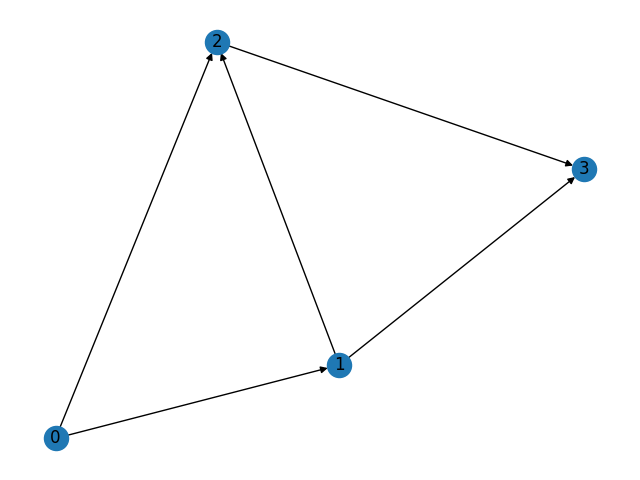
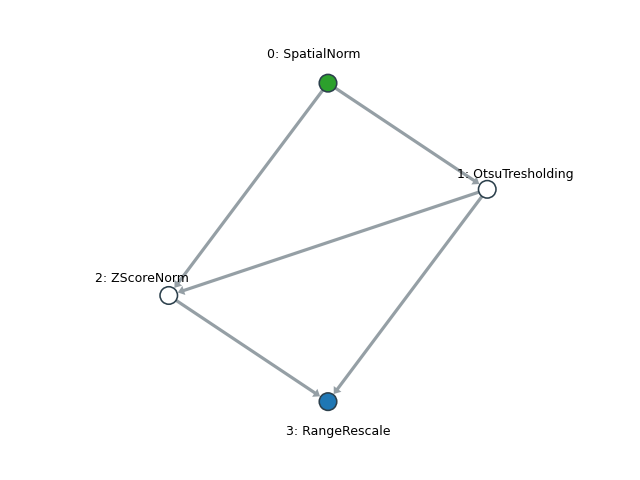
Support better plotting. Fix example 03.

diff --git a/mnts/filters/mnts_filters.py b/mnts/filters/mnts_filters.py
@@ -51,8 +51,8 @@ class MNTSFilter(object):
         return self.filter(*args, **kwargs)
 
     def __str__(self):
-        return f"{self.__class__.__name__}: \n\t" + \
-               '\n\t'.join(["{: >10}: {}".format(item[0], item[1]) for item in self.get_all_properties()])
+        return f"{self.__class__.__name__}: \n" + "-" * (len(self.__class__.__name__)+1) + \
+               '\n\t' + '\n\t'.join(["{: >20}: {}".format(item[0], item[1]) for item in self.get_all_properties()])
 
 class MNTSFilterRequireTraining(MNTSFilter):
     def __init__(self):
@@ -262,9 +262,32 @@ class MNTSFilterGraph(object):
             return cur_filter(self._inputs[node_id])
 
     def plot_graph(self):
+        import matplotlib.pyplot as plt
+        from netgraph import Graph
         #TODO: write this nodemap as the legend of the graph.
         print(self._nodemap)
-        nx.draw(self._graph, with_labels=True)
+        # nx.draw(self._graph, with_labels=True)
+
+        nodes_color = {}
+        for n in self.nodes:
+            if n in self._entrance:
+                nodes_color[n] = 'tab:green'
+            elif n in self._exits:
+                nodes_color[n] = 'tab:blue'
+            else:
+                nodes_color[n] = 'white'
+
+        nodes_label = {n: f'{n}: {self._nodemap[n]}' for n in self._nodemap}
+
+        try:
+            Graph(graph=self._graph, arrows=True, node_layout='dot', node_labels=nodes_label,
+                  node_label_fontdict={'size':9}, node_label_offset=0.1, node_color=nodes_color)
+        except AttributeError:
+            msg = f"Cannot plot using Sugiyama layout, retreating to spring."
+            self._logger.warning(msg, no_repeat=True)
+            Graph(graph=self._graph, arrows=True, node_layout='spring', node_labels=nodes_label,
+                  node_label_fontdict={'size': 8}, node_label_offset=0.1, node_color=nodes_color)
+
 
     def execute(self,
                 *args,
@@ -391,7 +414,6 @@ class MNTSFilterGraph(object):
             :class:`MNTSFilterRequireTraining`
 
         """
-
         input_path = Path(training_inputs).resolve()
         assert input_path.is_dir(), f"Cannot open training inputs at {input_path.__str__()}"
         if not isinstance(nodelist, (list, tuple)):
@@ -430,7 +452,10 @@ class MNTSFilterGraph(object):
                 u_nodes_files.append([str(r.resolve()) for r in u_node_dir.iterdir()
                                       if r.name.find('nii') != -1])
             trained_node_filter.train(*u_nodes_files)
-            trained_node_filter.save_state(save_dir.joinpath(trained_node_name))
+            trained_state_path = save_dir.joinpath(trained_node_name)
+            trained_node_filter.save_state(trained_state_path)
+            self._logger.info(f"Saving the state for {trained_node_name} to:"
+                              f" {str(trained_state_path)}")
 
     def load_node_states(self,
                          nodelist: List[Union[int, MNTSFilter]],
@@ -469,8 +494,11 @@ class MNTSFilterGraph(object):
         return cpyobj
 
     def __str__(self):
-        msg = ""
+        msg = "{:=^25}\n".format("Graph Structure")
         for n in self.nodes:
             u_nodes = [x[1] for x in self._graph.out_edges(n)]
             msg += f"{n: >2}: {self.nodes[n]['filter'].get_name()} -> {u_nodes} \n"
+        msg += "{:=^50}\n".format("Filter Details")
+        for n in self.nodes:
+            msg += str(self.nodes[n]['filter']) + '\n\n'
         return msg

diff --git a/mnts/filters/intensity/n4_bias_field_correction.py b/mnts/filters/intensity/n4_bias_field_correction.py
@@ -1,0 +1,95 @@
+import SimpleITK as sitk
+import numpy as np
+from pathlib import Path
+from typing import Union, Tuple, List
+from ..mnts_filters import MNTSFilter
+from .intensity_base import MNTSIntensityBase
+
+__all__ = ['N4ITKBiasFieldCorrection']
+
+class N4ITKBiasFieldCorrection(MNTSIntensityBase, MNTSFilter):
+    r"""
+    Comput the
+
+    Attributes:
+        max_iteration (int):
+            The maximum number of iterations specified at each fitting level. Default = 50.
+        num_of_fitting_lv (int):
+            The number of control points for the B-spline fitting. Default = 4.
+        convergence_threshold (float):
+            Fitting stopping criteria. Default = 0.01
+        num_hist_bins (int):
+            Number of histogram bins. Default = 200.
+    """
+    def __init__(self
+                 ):
+        super(N4ITKBiasFieldCorrection, self).__init__()
+        self._max_iteration = 50
+        self._num_of_fitting_lv = 4
+        self._convergence_threshold = 0.1
+        self._num_hist_bins = 200
+
+        self._last_bias_field = None
+        pass
+
+    @property
+    def max_iteration(self) -> int:
+        return self._max_iteration
+
+    @max_iteration.setter
+    def max_iteration(self, val: int) -> None:
+        assert val >= 1, "Number of iteration must be >= 1."
+        self._max_iteration = int(val)
+
+    @property
+    def num_of_fitting_lv(self) -> int:
+        return self._num_of_fitting_lv
+
+    @num_of_fitting_lv.setter
+    def num_of_fitting_lv(self, val: int) -> None:
+        assert val >= 2, "Number of fitting level is meaningless below 2."
+        self._num_of_fitting_lv = int(val)
+
+    @property
+    def convergence_thres(self) -> float:
+        return self._convergence_threshold
+
+    @convergence_thres.setter
+    def convergence_thres(self, val: float):
+        self._convergence_threshold = float(val)
+
+    @ property
+    def last_bias_field(self) -> sitk.Image:
+        if self._last_bias_field is None:
+            self._logger.warning("The bias field was not calculated yet.")
+        return self._last_bias_field
+
+    def correct_with_last_bias_field(self, input):
+        if self._last_bias_field is None:
+            raise ArithmeticError(f"Bias field have not been calculated yet.")
+        return input / sitk.Exp(self._last_bias_field)
+
+    def _filter(self,
+                input: Union[str, Path, sitk.Image],
+                mask: Union[str, Path, sitk.Image] = None):
+
+        input = self.read_image(input)
+        mask = self.read_image(mask)
+
+        # Corrector require float input.
+        if not input.GetPixelID() in [sitk.sitkFloat32, sitk.sitkFloat64]:
+            input = sitk.Cast(input, sitk.Float)
+
+        # Shrink input & mask by a factor of 2 to save computational time
+        shrinked = sitk.Shrink(input, [2] * input.GetDimension())
+        if not mask is None:
+            shirinked_mask = sitk.Shrink(mask, [2] * input.GetDimension())
+
+
+        corrector = sitk.N4BiasFieldCorrectionImageFilter()
+        corrector.SetMaximumNumberOfIterations([self.max_iteration] * self.num_of_fitting_lv)
+        corrector.Execute(shrinked, shirinked_mask)
+
+        log_bias_field = corrector.GetLogBiasFieldAsImage(input)
+        self._last_bias_field = log_bias_field
+        return input / sitk.Exp(log_bias_field)

diff --git a/test/test_masking.py b/test/test_masking.py
@@ -5,19 +5,15 @@ import networkx as nx
 import matplotlib.pyplot as plt
 import SimpleITK as sitk
 
-t = ZScoreNorm()
-G = MNTSFilterGraph()
-G.add_node(SpatialNorm(out_spacing=1))
-G.add_node(OtsuTresholding(), 0)
-G.add_node(ZScoreNorm(), [0, 1])
-G.add_node(RangeRescale(0, 5000), [2,1], True)
-G.plot_graph()
-plt.show()
+from netgraph import Graph
 
-image = sitk.ReadImage(r"Z:\Shared\2.Projects\8.NPC_Segmentation\0A.NIFTI_ALL\Malignant\CE-T1WFS_TRA\726-T1FS+C_TRA.nii.gz")
-x = G.execute(image)
-# # x = Z.filter(image)
-# # sitk.WriteImage(x, r"D:\temp\diudiu.nii.gz")
-sitk.WriteImage(sitk.Cast(x[3], sitk.sitkUInt16), r"D:\temp\diudiu.nii.gz")
-# #TODO: Keep original datatype?
-# #TODO: Keep original slice thickness!!!
+G = nx.DiGraph()
+G.add_nodes_from([0, 1, 2, 3, 4])
+G.add_edges_from([(0, 1),
+                  (1, 2),
+                  (0, 2),
+                  (1, 3),
+                  (3, 4)])
+Graph(graph=G, arrows=True, node_layout='dot', node_labels=True,
+      node_label_fontdict={'size':14}, node_label_offset=0.1)
+plt.show()

diff --git a/examples/05_another_graph_example.py b/examples/05_another_graph_example.py
@@ -1,0 +1,27 @@
+from pathlib import Path
+from mnts.filters.geom import *
+from mnts.filters.intensity import *
+from mnts.filters.mnts_filters import MNTSFilterGraph
+import networkx as nx
+import matplotlib.pyplot as plt
+import SimpleITK as sitk
+
+from mnts.utils import repeat_zip
+from mnts.filters import mpi_wrapper
+from mnts.filters.intensity import NyulNormalizer
+
+import pprint
+# If this protector is absent, windows python might go into recursive import loop.
+if __name__ == '__main__':
+    # Create the normalization graph.
+    G = MNTSFilterGraph()
+
+    # Add filter nodes to the graph.
+    G.add_node(SpatialNorm(out_spacing=[1, 1, 0]))
+    G.add_node(OtsuTresholding(), 0)    # Use mask to better match teh histograms
+    G.add_node(N4ITKBiasFieldCorrection(), [0, 1])
+    G.add_node(NyulNormalizer(), [2, 1])
+    G.add_node(RangeRescale(0, 5000, [0.05, 0.95]), [3,1], is_exit=True) # Label this as the
+
+    G.plot_graph()
+    plt.show()

diff --git a/mnts/filters/geom/spatial_norm.py b/mnts/filters/geom/spatial_norm.py
@@ -20,16 +20,15 @@ class SpatialNorm(MNTSFilter):
     """
     def __init__(self,
                  out_spacing: Union[float, Tuple[float, float, float]] = None,
-                 resampling_method: str = 'linear'):
+                 interpolation_method: str = 'linear'):
         super(SpatialNorm, self).__init__()
         self.out_spacing = out_spacing
-        self._interpolation = sitk.sitkLinear
-
         self._interpolation_names = {
             'linear': sitk.sitkLinear,
             'bspline': sitk.sitkBSpline,
             'nearest': sitk.sitkNearestNeighbor,
         }
+        self._interpolation = self._interpolation_names[interpolation_method]
 
 
     @property

diff --git a/examples/03_using_filter_w_graph.py b/examples/03_using_filter_w_graph.py
@@ -4,6 +4,7 @@ from mnts.filters.mnts_filters import MNTSFilterGraph
 import networkx as nx
 import matplotlib.pyplot as plt
 import SimpleITK as sitk
+from pathlib import Path
 
 # Create the normalization graph.
 G = MNTSFilterGraph()
@@ -26,7 +27,7 @@ im = sitk.ReadImage(eg_input.resolve().__str__())
 orig_dtype = im.GetPixelID()
 
 # Execute the graph
-im = G.execute(im)
+im = G.execute(im)[3] # node 3 is the only output node.
 
 # Cast the image back into its original datatype
 im = sitk.Cast(im, orig_dtype)

diff --git a/mnts/filters/intensity/hist_piecewise.py b/mnts/filters/intensity/hist_piecewise.py
@@ -88,8 +88,11 @@ class NyulNormalizer(MNTSIntensityBase, MNTSFilterRequireTraining):
         lower_origin:
 
         upper_origin:
+
         lower_target:
+
         upper_target:
+
         num_features_points:
 
 

diff --git a/mnts/filters/intensity/__init__.py b/mnts/filters/intensity/__init__.py
@@ -3,3 +3,4 @@ from .linear_z_score import *
 from .range_rescale import *
 from .masking import *
 from .hist_piecewise import *
+from .n4_bias_field_correction import *
